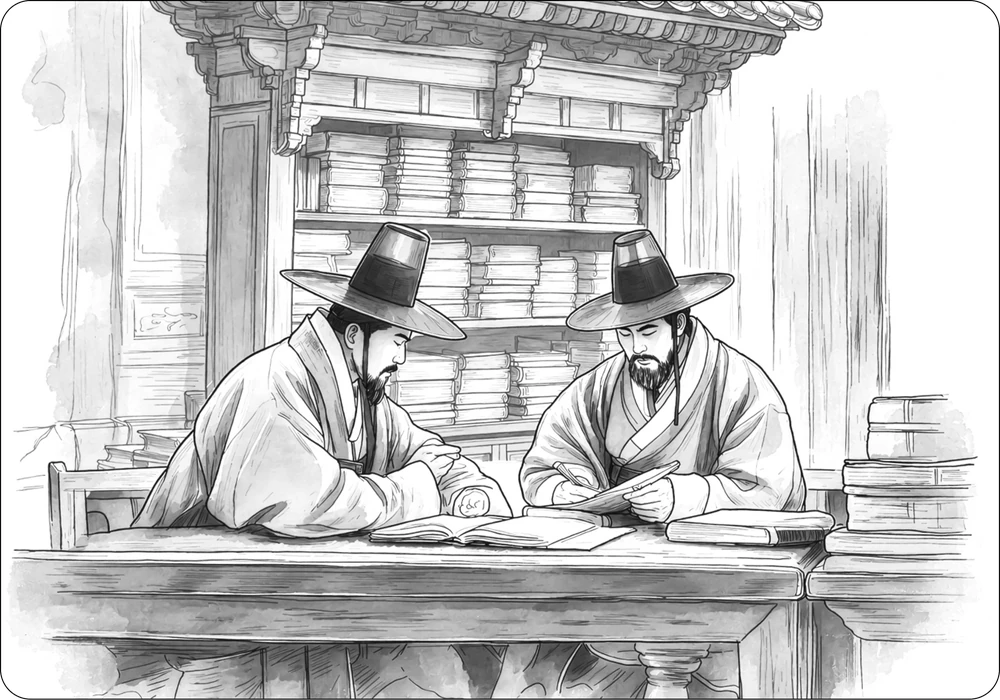
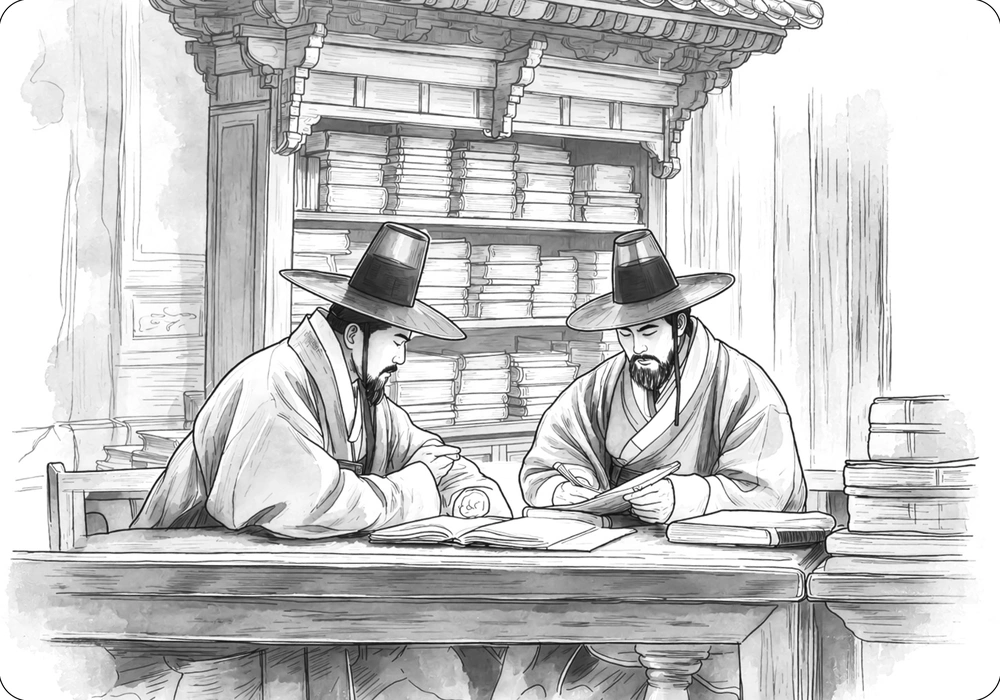
style: 모바일 웹 표준 단일 벡터 테두리 및 이미지 프레임 최적화 (이중선 및 곡률 왜곡 해결)

Changed region(s): [[0.0, 0.0, 1.0, 1.0], [0.031, 0.09, 0.062, 0.12], [0.0, 0.0, 0.031, 0.03]]

diff --git a/webhosting/css/style.css b/webhosting/css/style.css
@@ -204,28 +204,95 @@ body {
    Image & Figure Styles (2차 발주서 전시 레이아웃 및 모바일 최적화)
    ============================================================ */
 
-/* 메인 일러스트 (상단 대제목 하단: Page 4, 5, 6) */
+/* 메인 일러스트 (상단 대제목 하단: Page 1, 4, 5, 6, 8, 9) */
 .main-figure {
+  position: relative;
   margin: 0 0 1.65rem 0;
   width: 100%;
   border-radius: 12px;
   overflow: hidden;
-  background-color: #EFE9DE;
+  border: 1px solid rgba(45, 38, 30, 0.28);
   box-shadow: 0 4px 18px rgba(45, 38, 30, 0.08);
+  -webkit-mask-image: -webkit-radial-gradient(white, black);
+  transform: translateZ(0);
 }
 
+.main-figure picture,
 .main-figure img {
   display: block;
   width: 100%;
   height: auto;
-  border-radius: 12px;
+  border-radius: 0;
   transition: transform 0.25s ease;
 }
+
+/* 돋보기 확대 안내 배지 (가계도 등 확대 유도) */
+.zoom-hint-badge {
+  position: absolute;
+  right: 14px;
+  bottom: 14px;
+  display: inline-flex;
+  align-items: center;
+  gap: 7px;
+  padding: 8px 14px 8px 11px;
+  background-color: rgba(30, 26, 22, 0.86);
+  color: #FAF7F2;
+  font-size: 0.8125rem;
+  font-weight: 600;
+  letter-spacing: -0.01em;
+  border-radius: 9999px;
+  border: 1px solid rgba(255, 255, 255, 0.26);
+  box-shadow: 0 4px 14px rgba(0, 0, 0, 0.26), 0 1px 3px rgba(0, 0, 0, 0.16);
+  backdrop-filter: blur(6px);
+  -webkit-backdrop-filter: blur(6px);
+  pointer-events: none;
+  user-select: none;
+  -webkit-user-select: none;
+  transition: transform 0.25s ease, background-color 0.25s ease, box-shadow 0.25s ease;
+  animation: zoomHintPulse 2.8s ease-in-out infinite;
+  z-index: 2;
+}
+
+.zoom-hint-badge .zoom-icon {
+  display: block;
+  flex-shrink: 0;
+  stroke: #FAF7F2;
+  transition: transform 0.25s ease;
+}
+
+.main-figure:hover .zoom-hint-badge {
+  background-color: rgba(18, 15, 12, 0.94);
+  box-shadow: 0 6px 18px rgba(0, 0, 0, 0.35);
+  transform: translateY(-2px);
+}
+
+.main-figure:hover .zoom-hint-badge .zoom-icon {
+  transform: scale(1.12);
+}
+
+@keyframes zoomHintPulse {
+  0%, 100% {
+    transform: scale(1);
+    box-shadow: 0 4px 14px rgba(0, 0, 0, 0.26);
+  }
+  50% {
+    transform: scale(1.04);
+    box-shadow: 0 6px 18px rgba(0, 0, 0, 0.38), 0 0 0 3px rgba(255, 255, 255, 0.2);
+  }
+}
+
+
 
 /* 섹션 내 전폭 이미지 블록 (Page 2 - Woodblock, Movable Type, Electronic Books) */
 .figure-block {
   margin: 0.9rem 0 1.25rem;
   width: 100%;
+  border-radius: 8px;
+  overflow: hidden;
+  border: 1px solid rgba(45, 38, 30, 0.22);
+  box-shadow: 0 3px 12px rgba(45, 38, 30, 0.07);
+  -webkit-mask-image: -webkit-radial-gradient(white, black);
+  transform: translateZ(0);
 }
 
 .figure-block picture,
@@ -233,9 +300,8 @@ body {
   display: block;
   width: 100%;
   height: auto;
-  border-radius: 8px;
-  box-shadow: 0 3px 12px rgba(45, 38, 30, 0.07);
-  background-color: #F0ECE4;
+  border-radius: 0;
+  background-color: transparent;
 }
 
 /* 좌우 나란히 배치 레이아웃 (Page 2 - Archimedes Palimpsest) */
@@ -253,6 +319,10 @@ body {
 .figure-side .img-box {
   flex: 0 0 110px;
   max-width: 120px;
+  border-radius: 6px;
+  overflow: hidden;
+  border: 1px solid rgba(45, 38, 30, 0.22);
+  box-shadow: 0 2px 8px rgba(45, 38, 30, 0.1);
 }
 
 .figure-side .img-box picture,
@@ -260,8 +330,7 @@ body {
   display: block;
   width: 100%;
   height: auto;
-  border-radius: 6px;
-  box-shadow: 0 2px 8px rgba(45, 38, 30, 0.1);
+  border-radius: 0;
 }
 
 .figure-side .caption-box {
@@ -320,6 +389,8 @@ body {
   opacity: 0;
   transition: opacity 0.25s ease;
   padding: 1.5rem;
+  overflow: auto;
+  -webkit-overflow-scrolling: touch;
 }
 
 .image-modal.active {
@@ -334,6 +405,15 @@ body {
   border-radius: 6px;
   box-shadow: 0 8px 30px rgba(0, 0, 0, 0.5);
   animation: modalPop 0.25s cubic-bezier(0.16, 1, 0.3, 1);
+  cursor: zoom-in;
+  transition: transform 0.2s ease, max-width 0.2s ease, max-height 0.2s ease;
+}
+
+.image-modal-content.is-zoomed {
+  max-width: none;
+  max-height: none;
+  cursor: zoom-out;
+  margin: auto;
 }
 
 .image-modal-close {

diff --git a/webhosting/page8.html b/webhosting/page8.html
@@ -16,6 +16,23 @@
     <article class="content-wrapper">
       <h1 class="exhibit-title">Genealogy of the Gyeongju Yi Clan of Chopyeong, Jincheon</h1>
       
+      <!-- 상단 메인 가계도 다이어그램 (8번 큐알 PDF 반영 & 돋보기 확대 유도) -->
+      <figure class="main-figure">
+        <picture>
+          <source srcset="images/qr8_image.webp" type="image/webp">
+          <img src="images/qr8_image.png" alt="Family Tree of the Gyeongju Yi Clan of Chopyeong, Jincheon" class="zoomable-img" loading="eager" decoding="async">
+        </picture>
+        <div class="zoom-hint-badge" aria-hidden="true">
+          <svg class="zoom-icon" viewBox="0 0 24 24" width="16" height="16" fill="none" stroke="currentColor" stroke-width="2.3" stroke-linecap="round" stroke-linejoin="round">
+            <circle cx="10.5" cy="10.5" r="7"></circle>
+            <line x1="21" y1="21" x2="15.5" y2="15.5"></line>
+            <line x1="10.5" y1="7.5" x2="10.5" y2="13.5"></line>
+            <line x1="7.5" y1="10.5" x2="13.5" y2="10.5"></line>
+          </svg>
+          <span>Tap to enlarge</span>
+        </div>
+      </figure>
+
       <section class="section-group">
         <h2 class="section-subtitle">Reference 1: The Origin of Palbyeol</h2>
         <p class="section-text">The Gyeongju Yi clan of Chopyeong traces its lineage to the eight sons of Yi Gong-rin, collectively known as the Palbyeol (八鼈, Eight Turtles). Yi Gong-rin, a sixth-generation descendant of Yi Je-hyeon, married a daughter of Bak Paeng-nyeon. According to legend, he dreamed of eight turtles, said to be the sons of the Dragon King. When his eight sons were born, he named them after aquatic creatures: O (鰲, Giant Turtle), Gu (龜, Turtle), Won (黿, Softshell Turtle), Ta (鼉, Crocodile), Byeol (鼈, Softshell Turtle), Byeok (鼊, Turtle), Gyeong (鯨, Whale), and Gon (鯤, Giant Fish).</p>

diff --git a/webhosting/page9.html b/webhosting/page9.html
@@ -16,6 +16,14 @@
     <article class="content-wrapper">
       <h1 class="exhibit-title">Donor Yi Jeong-hui</h1>
       
+      <!-- 상단 메인 일러스트 (9번 큐알 PDF 반영) -->
+      <figure class="main-figure">
+        <picture>
+          <source srcset="images/qr9_image.webp" type="image/webp">
+          <img src="images/qr9_image.png" alt="Donor Yi Jeong-hui" class="zoomable-img" loading="eager" decoding="async">
+        </picture>
+      </figure>
+
       <p class="section-text">Born in Yongjeong-ri, Chopyeong-myeon, Jincheon-gun, Chungcheongbuk-do Province, Yi Jeong-hui was a tenth-generation descendant of Yi In-yeop of the Gyeongju Yi clan. To support the restoration of Wanwigak and the development of Chopyeong Book Village, he donated some 800 old books that had been preserved by his family. Some of the books in the original collection were destroyed in a fire in the late Joseon period. The surviving volumes continued to be preserved in the family’s sarangchae, the traditional men’s quarters of the house, and were kept even after the family moved to Seoul. At one point, the collection was also entrusted to the Jangseogak Archives of the Academy of Korean Studies. The donated books will be permanently preserved by Jincheon County and continue to serve as valuable resources for exhibitions and academic research.</p>
     </article>
   </main>

diff --git a/webhosting/page1.html b/webhosting/page1.html
@@ -16,6 +16,14 @@
     <article class="content-wrapper">
       <h1 class="exhibit-title">The Life of Yi Ha-gon</h1>
       
+      <!-- 상단 메인 일러스트 (1번 큐알 PDF 반영) -->
+      <figure class="main-figure">
+        <picture>
+          <source srcset="images/qr1_image.webp" type="image/webp">
+          <img src="images/qr1_image.png" alt="The Life of Yi Ha-gon" class="zoomable-img" loading="eager" decoding="async">
+        </picture>
+      </figure>
+
       <section class="section-group">
         <h2 class="section-subtitle">Origins and Early Life (1677–1707)</h2>
         <p class="section-text">Born in Yangchon, Chopyeong-myeon, Jincheon-gun, Chungcheongbuk-do Province, Yi Ha-gon cultivated his scholarship and artistic talents from an early age. His early poems in Dutacho celebrated nature and the landscapes of his hometown.</p>

diff --git a/webhosting/js/main.js b/webhosting/js/main.js
@@ -27,6 +27,7 @@ document.addEventListener('DOMContentLoaded', () => {
 
   const closeModal = () => {
     modal.classList.remove('active');
+    modalImg.classList.remove('is-zoomed');
     document.body.style.overflow = '';
     setTimeout(() => {
       modalImg.src = '';
@@ -42,11 +43,13 @@ document.addEventListener('DOMContentLoaded', () => {
     });
   });
 
-  // 닫기 이벤트들
+  // 닫기 및 확대/축소 토글 이벤트
   closeBtn.addEventListener('click', closeModal);
   modal.addEventListener('click', (e) => {
-    if (e.target === modal || e.target === modalImg) {
+    if (e.target === modal) {
       closeModal();
+    } else if (e.target === modalImg) {
+      modalImg.classList.toggle('is-zoomed');
     }
   });
 
